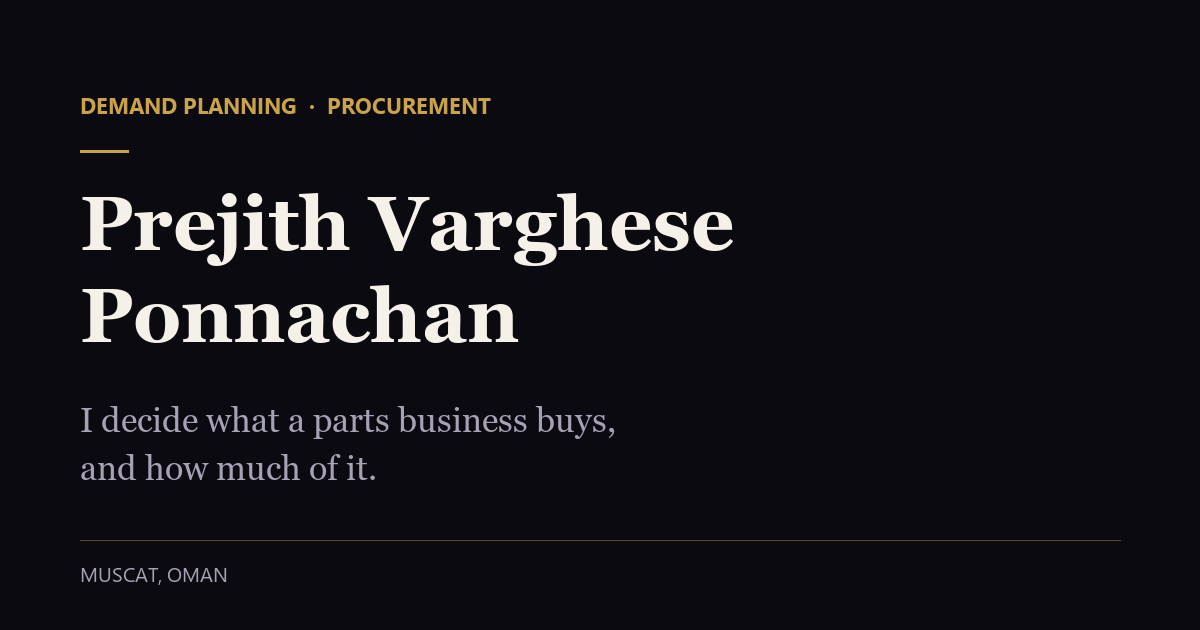
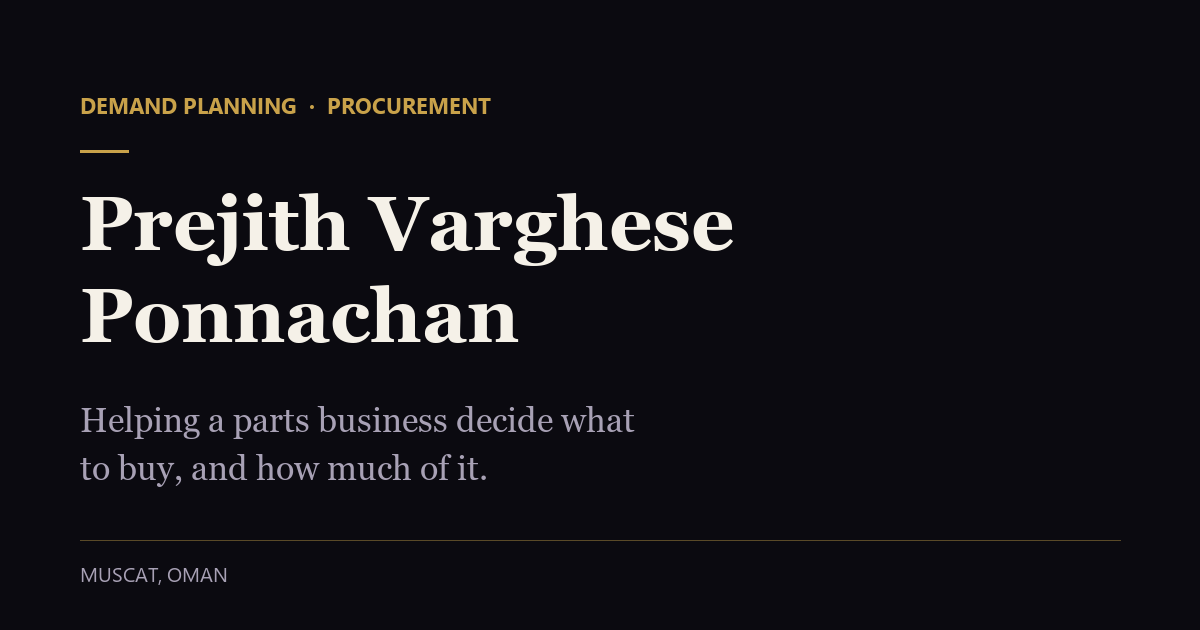
Add files via upload

Changed region(s): [[0.0617, 0.6333, 0.5242, 0.6937], [0.0617, 0.7238, 0.4008, 0.7841]]

diff --git a/index.html b/index.html
@@ -252,6 +252,19 @@ footer a{color:var(--gold-soft)}
 .v-short{--v:var(--bad)}.v-ok{--v:var(--ok)}.v-over{--v:var(--warn)}.v-dead{--v:var(--dead)}
 @media (max-width:980px){.sc-form{grid-template-columns:1fr 1fr;align-items:start}.sc-btn{grid-column:1/-1;justify-self:start}}
 @media (max-width:560px){.sc-form{grid-template-columns:1fr}}
+
+/* certificates */
+.edu li.cert{padding:0;border-bottom:1px solid var(--line)}
+.cert a{display:flex;gap:16px;align-items:center;padding:16px 0;text-decoration:none;color:inherit}
+.cert img{flex:none;width:96px;height:68px;object-fit:cover;object-position:center top;border:1px solid var(--line);border-radius:8px;transition:border-color .25s,transform .25s}
+.cert a:hover img{border-color:var(--gold);transform:translateY(-2px)}
+.edu li .cert-txt{display:block;color:var(--ivory);margin-top:0}
+.edu li .cert-txt b{color:var(--ivory)}
+.edu li .cert-txt span{color:var(--muted)}
+.edu li .cert-txt .cert-link{color:var(--gold-soft)}
+.cert .cert-link{display:inline-block;color:var(--gold-soft);font-size:.88rem;margin-top:6px;border-bottom:1px solid var(--line)}
+.cert a:hover .cert-link{border-bottom-color:var(--gold)}
+@media (prefers-reduced-motion:reduce){.cert a:hover img{transform:none}}
 </style>
 </head>
 <body>
@@ -279,8 +292,8 @@ footer a{color:var(--gold-soft)}
     <div class="hero-copy">
       <p class="hero-label">Demand planning · Procurement</p>
       <h1 id="h1">Prejith Varghese <span class="grad">Ponnachan</span></h1>
-      <p class="lead">I decide what a parts business buys, and how much of it.</p>
-      <p class="sub">I run planning and procurement for a multi-brand automotive parts distributor in Oman. I follow every order until the goods are checked into the warehouse.</p>
+      <p class="lead">Helping a parts business decide what to buy, and how much of it.</p>
+      <p class="sub">Planning and procurement for a multi-brand automotive parts distributor in Oman. Every order is tracked from enquiry until the goods are checked into the warehouse.</p>
       <div class="actions">
         <a class="btn btn-primary" href="#work">See the work</a>
         <a class="btn btn-secondary" href="#stock-check">Check your stock</a>
@@ -368,26 +381,26 @@ footer a{color:var(--gold-soft)}
         <p class="meta">Multi-brand automotive parts distributor · Full-time · Muscat, Oman (on-site)</p>
         <p class="when">Apr 2024 to present</p>
         <p class="desc">I plan and buy across a wide international parts range, manage suppliers and freight, clear goods through customs, look after the brand range and pricing, and report to the General Manager and CEO.</p>
-        <p class="taught"><b>What it taught me</b>Most costly mistakes start as a small number nobody checked. I check the small numbers now, even when it slows me down.</p>
+        <p class="taught"><b>What it taught me</b>Most mistakes start small. I try to check the details, even when there is pressure to move quickly.</p>
       </article>
       <article class="role reveal">
         <h3>Head of Marketing and Strategy</h3>
         <p class="meta">Puma Performance Pathway · Contract · Bury St Edmunds, UK (remote)</p>
         <p class="when">Dec 2023 to Jan 2025</p>
         <p class="desc">Led marketing and strategy, and built the dashboards leadership used to make decisions.</p>
-        <p class="taught"><b>What it taught me</b>A strategy is only useful once someone can act on it on Monday morning. I started ending every piece of work with the next step written down.</p>
+        <p class="taught"><b>What it taught me</b>A plan only helps if people know what to do next. I try to end every piece of work with a clear next step.</p>
       </article>
       <article class="role reveal">
         <h3>Marketing Consultant</h3>
         <p class="meta">DubSports · Contract · Birmingham, UK (remote)</p>
         <p class="when">Jul 2023 to Nov 2023</p>
-        <p class="taught"><b>What it taught me</b>Advice only lands when it fits the client's situation. Listening first saved me more time than any framework did.</p>
+        <p class="taught"><b>What it taught me</b>The client always knows their business better than I do. Listening first and asking questions helped far more than offering ideas early.</p>
       </article>
       <article class="role reveal">
         <h3>Digital Marketing Intern</h3>
         <p class="meta">The Muddy Marketer · Contract · Birmingham, UK (remote)</p>
         <p class="when">Nov 2023</p>
-        <p class="taught"><b>What it taught me</b>A one-month brief teaches you to find what matters quickly, and to ask instead of assuming.</p>
+        <p class="taught"><b>What it taught me</b>With only a month, I learnt to ask questions early instead of guessing.</p>
       </article>
       <article class="role reveal">
         <h3>Netcom Training</h3>
@@ -401,33 +414,33 @@ footer a{color:var(--gold-soft)}
           <h4>Marketing and Social Media Officer</h4>
           <p class="when">Sep 2022 to Nov 2022</p>
         </div>
-        <p class="taught"><b>What it taught me</b>The system nobody wanted to own turned out to be where the results were. Fixing the process did more than any campaign I ran.</p>
+        <p class="taught"><b>What it taught me</b>Taking on work that others avoided taught me a lot. Improving how the CRM was used helped more than any campaign I ran.</p>
       </article>
 
       <button class="early-toggle" id="earlyBtn" aria-expanded="false" aria-controls="early">Show early career</button>
       <div class="early" id="early" hidden>
         <article class="role small">
           <h3>Mentor</h3><p class="meta">GradRight Inc. · Birmingham, UK</p><p class="when">Sep 2022 to Oct 2022</p>
-          <p class="taught"><b>What it taught me</b>Explaining something to someone else showed me which parts I had only half understood.</p>
+          <p class="taught"><b>What it taught me</b>Explaining things to others showed me where my own understanding still had gaps.</p>
         </article>
         <article class="role small">
           <h3>LinkedIn Volunteer</h3><p class="meta">TUAid · United Kingdom</p><p class="when">Sep 2022 to Oct 2022</p>
-          <p class="taught"><b>What it taught me</b>Volunteering for a charity taught me to respect people's time. Short, clear messages got answers.</p>
+          <p class="taught"><b>What it taught me</b>People were giving their time for free, so I learnt to keep my messages short and clear.</p>
         </article>
         <article class="role small">
           <h3>Course Representative</h3><p class="meta">Coventry University · Coventry, UK</p><p class="when">Oct 2021 to Aug 2022</p>
-          <p class="taught"><b>What it taught me</b>Representing other students meant passing on their concerns accurately, including the ones I would not have raised myself.</p>
+          <p class="taught"><b>What it taught me</b>Speaking for other students taught me to pass on their concerns fairly, even when I saw things differently.</p>
         </article>
         <article class="role small">
           <h3>Digital Content Intern</h3><p class="meta">Kidadl · India (remote)</p><p class="when">Jan 2021 to May 2022</p>
-          <p class="taught"><b>What it taught me</b>Writing for a wide audience on a deadline taught me that the clear version usually beats the clever one.</p>
+          <p class="taught"><b>What it taught me</b>Writing to deadlines taught me that simple and clear usually works best.</p>
         </article>
         <article class="role small">
           <div class="sub-role first"><h4>Digital Marketing Intern</h4><p class="meta">Henry Harvin Education · India</p><p class="when">Nov 2020 to Feb 2021</p></div>
           <div class="sub-role"><h4>Digital Marketing Intern</h4><p class="meta">IIT Bhubaneswar · India</p><p class="when">Dec 2020 to Jan 2021</p></div>
           <div class="sub-role"><h4>Campus Ambassador</h4><p class="meta">Tata Social Enterprise Challenge · Kollam, India</p><p class="when">Nov 2020 to Jan 2021</p></div>
           <div class="sub-role"><h4>Internshala Student Partner</h4><p class="meta">Internshala · India</p><p class="when">Nov 2020 to Jan 2021</p></div>
-          <p class="taught"><b>What it taught me</b>Saying yes to everything early on showed me what I was good at, and what I should hand to someone better.</p>
+          <p class="taught"><b>What it taught me</b>Trying many things early helped me see what I am good at, and where I still have room to grow.</p>
         </article>
       </div>
     </div>
@@ -446,8 +459,9 @@ footer a{color:var(--gold-soft)}
     <div class="reveal">
       <span class="label">Certifications</span>
       <ul>
-        <li><b>CMI Level 7, Strategic Management and Leadership Practice</b><span>Chartered Management Institute</span></li>
-        <li><b>Six Sigma Yellow Belt</b><span>The Council for Six Sigma Certification</span></li>
+        <li class="cert"><a href="certificates/cmi-level-7.webp" target="_blank" rel="noopener"><img src="certificates/cmi-level-7.webp" width="990" height="1400" alt="CMI Level 7, Strategic Management and Leadership Practice certificate" loading="lazy"><span class="cert-txt"><b>CMI Level 7, Strategic Management and Leadership Practice</b><span>Chartered Management Institute · May 2023</span><span class="cert-link">View certificate</span></span></a></li>
+        <li class="cert"><a href="certificates/six-sigma-yellow-belt.webp" target="_blank" rel="noopener"><img src="certificates/six-sigma-yellow-belt.webp" width="1400" height="990" alt="Six Sigma Yellow Belt certificate" loading="lazy"><span class="cert-txt"><b>Six Sigma Yellow Belt</b><span>The Council for Six Sigma Certification · October 2024</span><span class="cert-link">View certificate</span></span></a></li>
+        <li class="cert"><a href="certificates/six-sigma-white-belt.webp" target="_blank" rel="noopener"><img src="certificates/six-sigma-white-belt.webp" width="1400" height="990" alt="Six Sigma White Belt certificate" loading="lazy"><span class="cert-txt"><b>Six Sigma White Belt</b><span>The Council for Six Sigma Certification · May 2024</span><span class="cert-link">View certificate</span></span></a></li>
       </ul>
     </div>
   </div>
